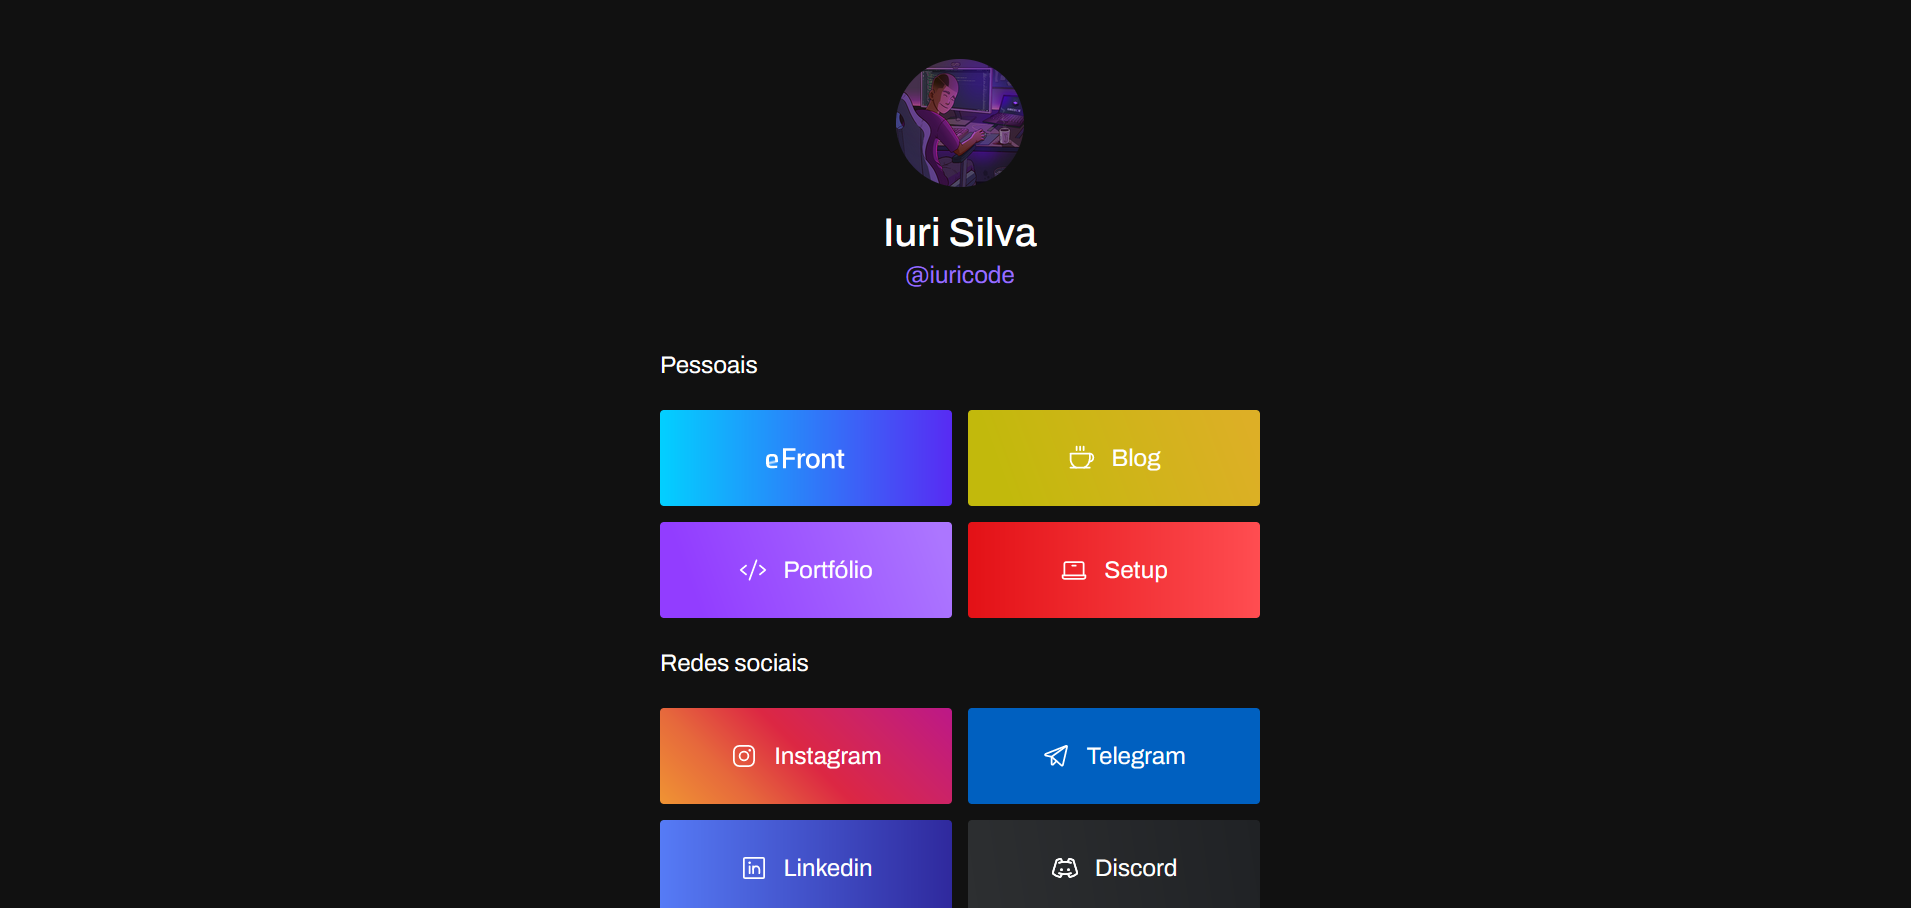
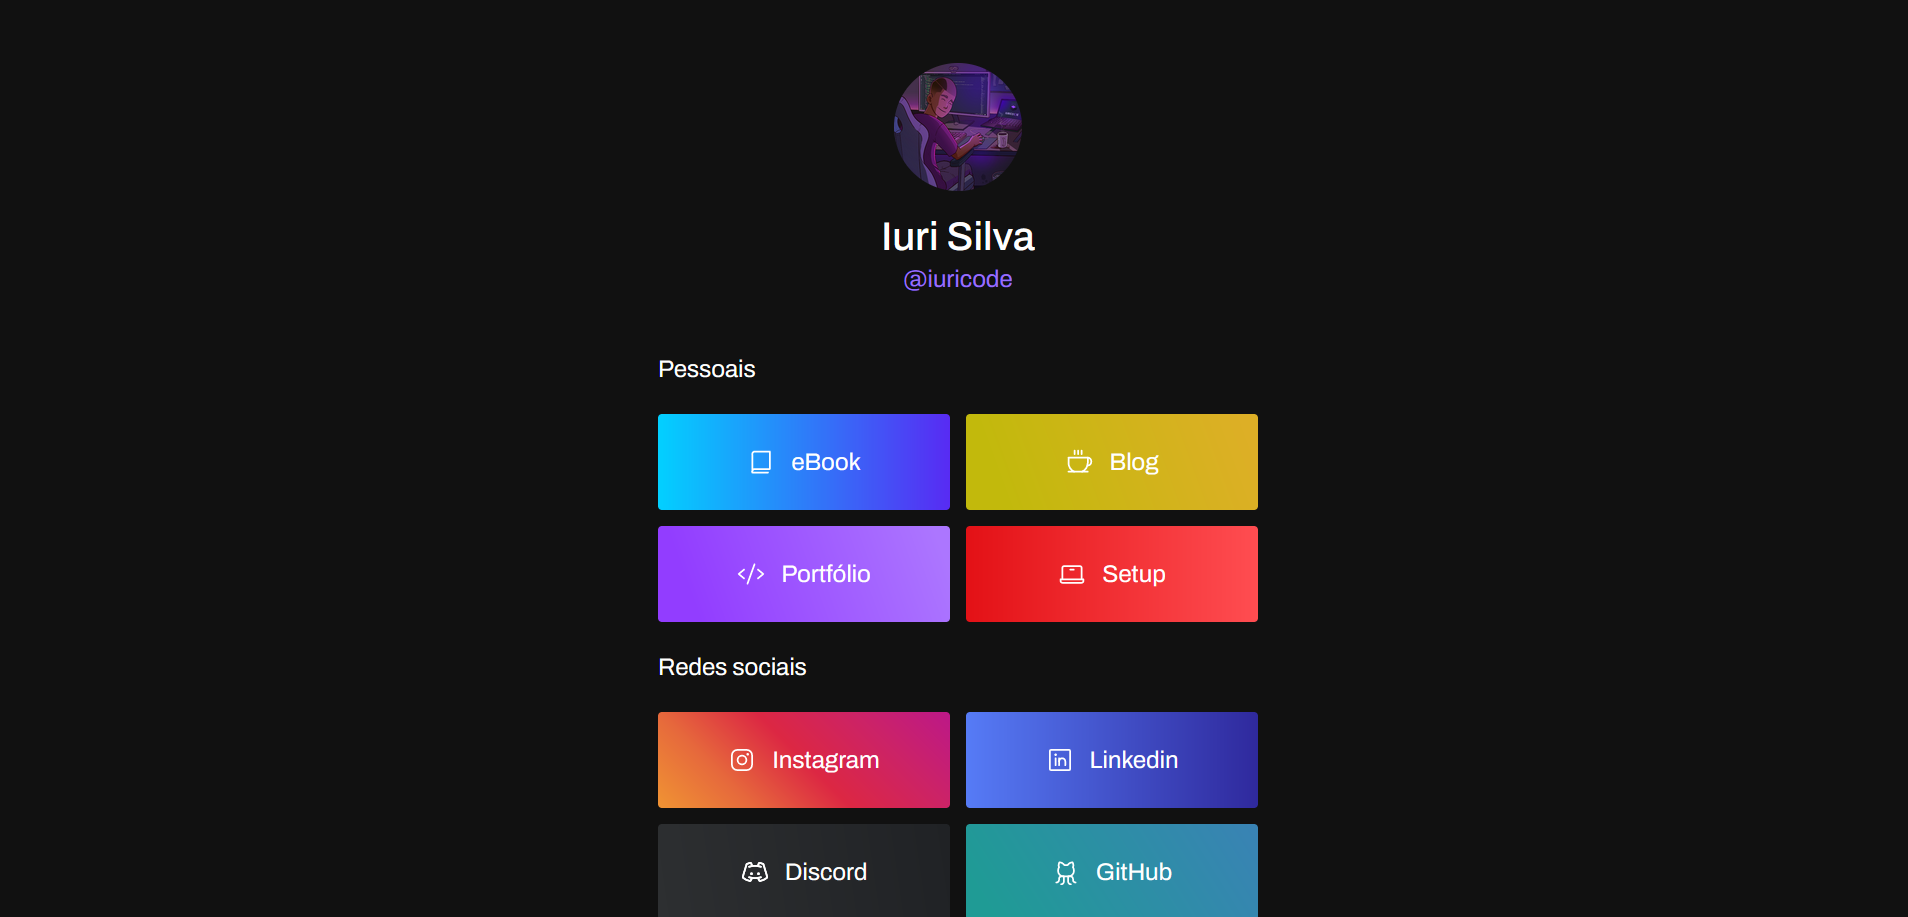
tirando o telegram

diff --git a/assets/css/style.css b/assets/css/style.css
@@ -1,1 +1,1 @@
-*{padding:0;margin:0;box-sizing:border-box;font-family:"Archivo"}::selection{background-color:#986dff;color:#fff}ul,ol{list-style:none;margin:0;padding:0}a{text-decoration:none}img{max-width:100%;height:auto;display:block}p,h1,h2,h3,h4,h5,h6{margin:0}button,input{border:0;font-family:"Archivo"}button:focus,input:focus{border:0}body{font-family:"Archivo";background-color:#111;padding:64px 24px;color:#fff}html{scroll-behavior:smooth;font-size:62.5%}::-webkit-scrollbar{width:8px}::-webkit-scrollbar-track{background-color:#17161d}::-webkit-scrollbar-thumb{background-color:#986dff;border-radius:8px}header{display:flex;justify-content:center;align-items:center;flex-direction:column;margin-bottom:64px}header img{height:128px;width:128px;border-radius:50%;margin-bottom:24px;transition:.2s}header h1{font-size:4rem;font-weight:500}header p{margin-top:8px;font-size:2.4rem;color:#986dff;font-weight:400}section{max-width:600px;margin:32px auto}section h2{font-size:2.4rem;font-weight:400}section div{display:flex;justify-content:center;align-items:center;flex-wrap:wrap;margin:32px auto;gap:16px}section div p{font-size:2rem;text-align:center;line-height:160%;color:#9ca3af;margin:16px 0px 48px 0px;font-weight:300}section div a{flex-basis:200px;flex-grow:1}@media screen and (max-width: 768px){section div a{flex-basis:600px}}section div article{display:flex;justify-content:center;align-items:center;min-height:96px;padding:8px;border-radius:4px}section div article:hover img{width:32px}section div article:hover #efront{width:88px}section div article img{width:28px;margin-right:16px;transition:.4s}section div article #efront{width:80px;margin-right:0}section div article h2{text-align:center;font-size:2.4rem;font-weight:400;color:#fff}#pix{max-width:600px;margin:48px auto 0 auto}#pix article{background-color:#17171c;padding:24px;border-radius:4px;display:flex;flex-direction:column;text-align:center}#pix article h2{font-size:2.8rem;margin-bottom:16px}#pix article p{margin:16px 0;font-size:1.8rem}#pix article h3{margin-bottom:24px;font-size:2.4rem;font-weight:400}#pix article button{background-color:#986dff;border-radius:4px;padding:12px;color:#fff;font-size:1.8rem;text-transform:uppercase;font-weight:600;margin:8px 0}#pix article button:hover{background-color:#986dff;cursor:pointer}#pix article #valor-pix{font-style:italic;opacity:.6}/*# sourceMappingURL=style.css.map */
+*{padding:0;margin:0;box-sizing:border-box;font-family:"Archivo"}::selection{background-color:#986dff;color:#fff}ul,ol{list-style:none;margin:0;padding:0}a{text-decoration:none}img{max-width:100%;height:auto;display:block}p,h1,h2,h3,h4,h5,h6{margin:0}button,input{border:0;font-family:"Archivo"}button:focus,input:focus{border:0}body{font-family:"Archivo";background-color:#111;padding:64px 24px;color:#fff}html{scroll-behavior:smooth;font-size:62.5%}::-webkit-scrollbar{width:8px}::-webkit-scrollbar-track{background-color:#17161d}::-webkit-scrollbar-thumb{background-color:#986dff;border-radius:8px}header{display:flex;justify-content:center;align-items:center;flex-direction:column;margin-bottom:64px}header img{height:128px;width:128px;border-radius:50%;margin-bottom:24px;transition:.2s}header h1{font-size:4rem;font-weight:500}header p{margin-top:8px;font-size:2.4rem;color:#986dff;font-weight:400}section{max-width:600px;margin:32px auto}section h2{font-size:2.4rem;font-weight:400}section div{display:flex;justify-content:center;align-items:center;flex-wrap:wrap;margin:32px auto;gap:16px}section div p{font-size:2rem;text-align:center;line-height:160%;color:#9ca3af;margin:16px 0px 48px 0px;font-weight:300}section div a{flex-basis:200px;flex-grow:1}@media screen and (max-width: 768px){section div a{flex-basis:600px}}section div article{display:flex;justify-content:center;align-items:center;min-height:96px;padding:8px;border-radius:4px}section div article:hover img{width:32px}section div article:hover #efront{width:88px}section div article img{width:28px;margin-right:16px;transition:.4s}section div article #efront{width:80px;margin-right:0}section div article h2{text-align:center;font-size:2.4rem;font-weight:400;color:#fff}/*# sourceMappingURL=style.css.map */

diff --git a/index.html b/index.html
@@ -29,7 +29,6 @@
       href="assets/image/logo-page.svg"
       type="image/x-icon"
     />
-    <link rel="apple-touch-icon" href="assets/image/icon-browser.svg" />
     <link rel="canonical" href="https://www.iuricode.com/bio/" />
     <link rel="stylesheet" href="assets/css/style.css" />
     <title>Bio // Iuri Silva</title>
@@ -58,12 +57,12 @@
               "
             >
               <img
-                src="assets/icons/efront.svg"
-                alt="ícone efront"
-                width="20px"
-                height="20px"
-                id="efront"
+                src="assets/icons/book.svg"
+                alt="ícone livro"
+                width="28px"
+                height="28px"
               />
+              <h2>eBook</h2>
             </article>
           </a>
 
@@ -154,18 +153,6 @@
             </article>
           </a>
 
-          <a href="https://t.me/iuricode" rel="noopener" target="_blank">
-            <article style="background: #0060c0">
-              <img
-                src="assets/icons/telegram.svg"
-                alt="ícone telegram"
-                width="28px"
-                height="28px"
-              />
-              <h2>Telegram</h2>
-            </article>
-          </a>
-
           <a
             href="https://www.linkedin.com/in/iuricode/"
             rel="noopener"
@@ -251,20 +238,6 @@
           </a>
         </div>
       </section>
-
-      <section id="pix">
-        <article>
-          <h2>Pix para ajudar nas doações 🙏</h2>
-          <p>Chave Pix</p>
-          <h3 id="chave">iuricold99@gmail.com</h3>
-          <button id="copy">Copiar chave</button>
-          <p id="valor-pix">
-            *12.670,28 reais doados para ONGs de animais e cestas básicas*
-          </p>
-        </article>
-      </section>
     </main>
-
-    <script src="./assets/js/script.js"></script>
   </body>
 </html>

diff --git a/assets/scss/style.scss b/assets/scss/style.scss
@@ -1,1 +1,4 @@
-@import "./variables", "./reset", "./profile", "./card", "./pix";
+@import "./variables";
+@import "./reset";
+@import "./profile";
+@import "./card";

diff --git a/README.md b/README.md
@@ -6,7 +6,7 @@
 
 <h4 align="center"><a href="https://www.iuricode.com/bio/">Clique para visitar o projeto</a></h4>
 
-<p align="center">Inspirado na nio da <a href="https://www.instagram.com/girl.coding/">girl.coding</a></p>
+<p align="center">Inspirado na bio da <a href="https://www.instagram.com/girl.coding/">girl.coding</a></p>
 
 ---
 
